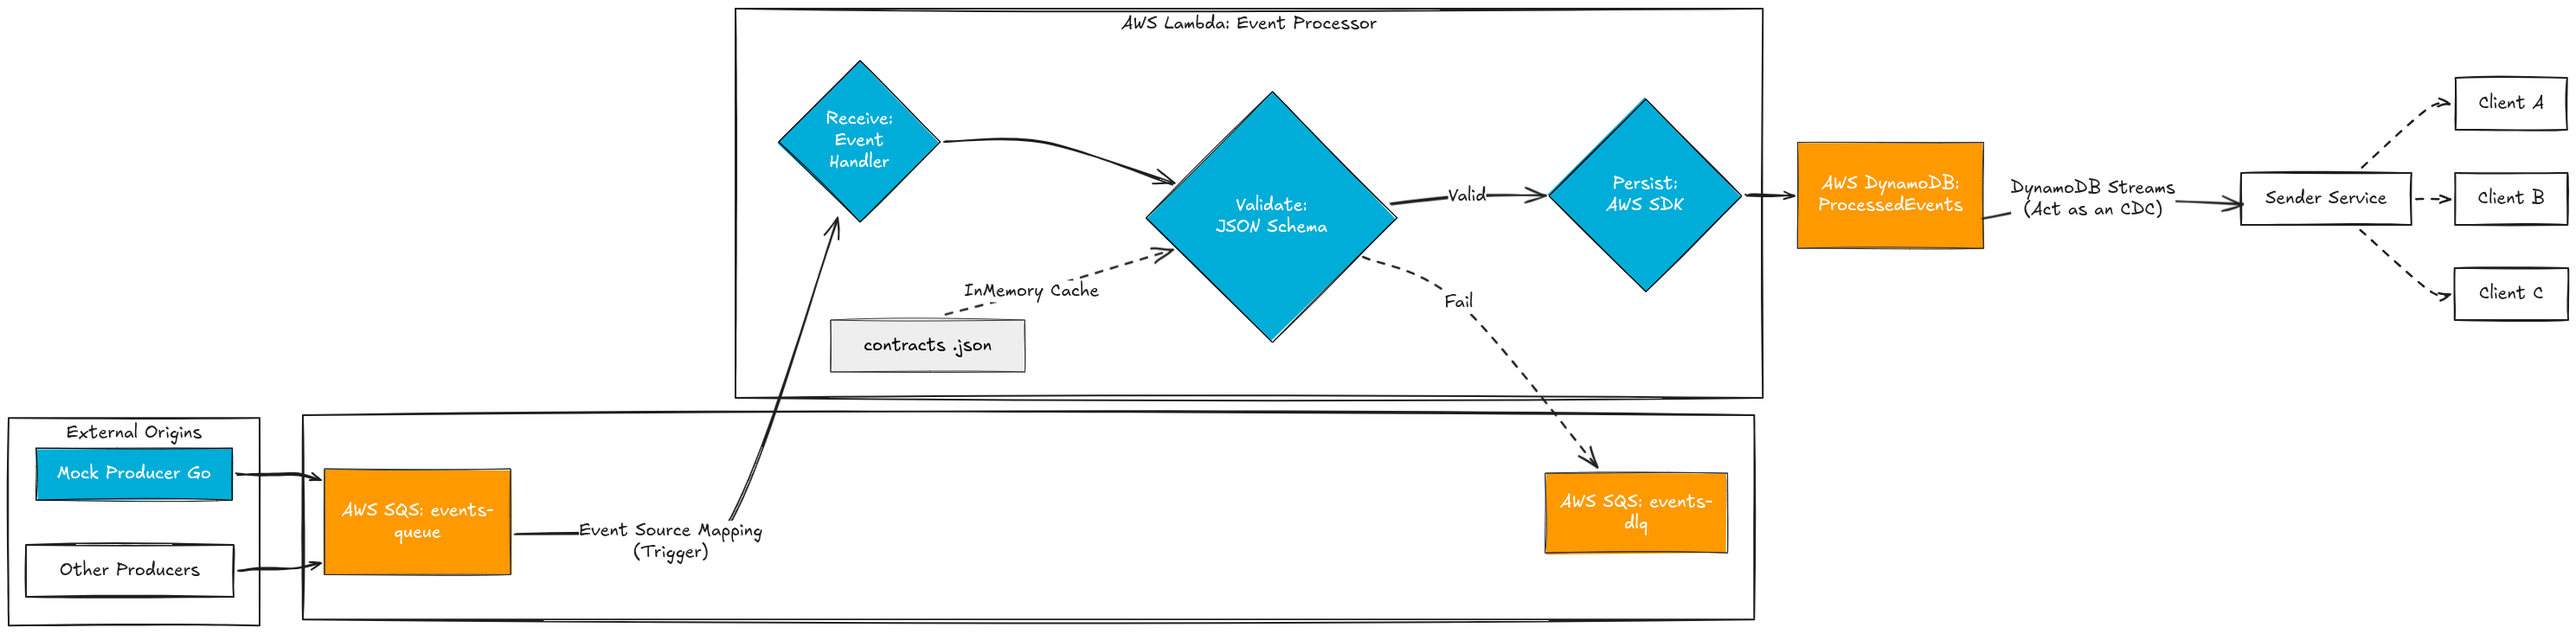
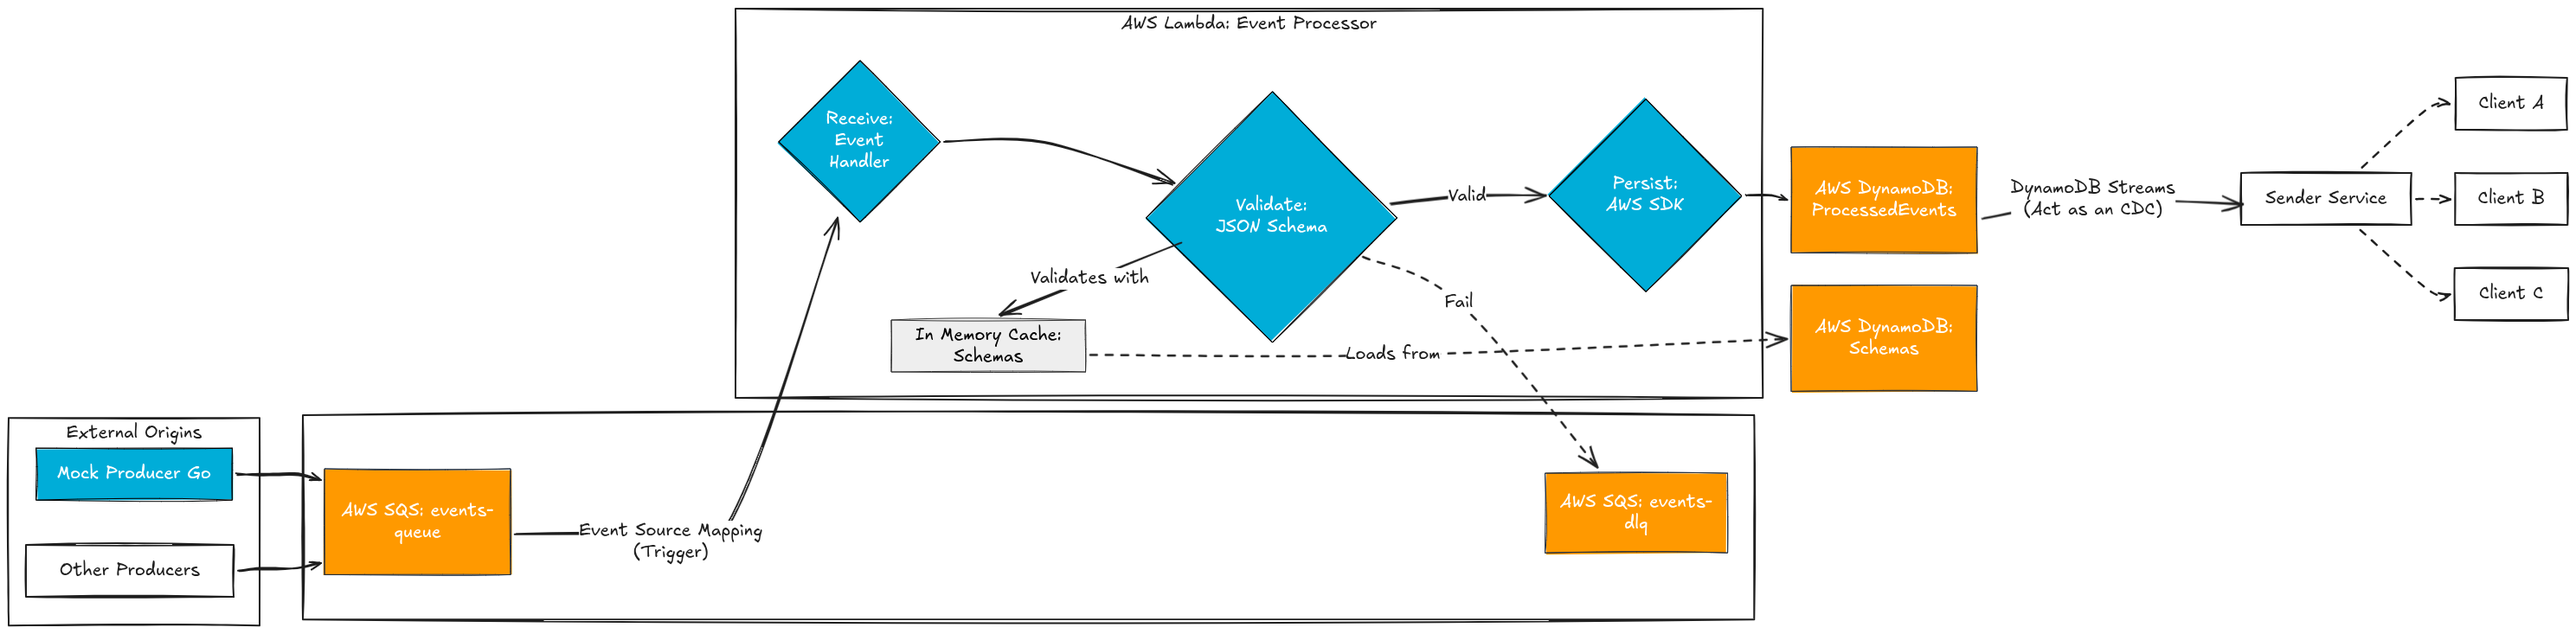
docs: update docs

diff --git a/readme.md b/readme.md
@@ -15,12 +15,14 @@ Para atender aos requisitos de escalabilidade e resiliência, a seguinte stack f
     * Como a arquitetura proposta não exige a garantia de ordem estrita de processamento ou *replay* histórico de eventos, o SQS atende perfeitamente ao requisito de mensageria com resiliência sem a sobrecarga de gerenciar *brokers*, partições ou *offsets* exigida pelo Kafka.
 * **Processamento (AWS Lambda em Go):** A arquitetura utilizará o modelo *Event-Driven* com AWS Lambda (linguagem de progamação Go) acionada nativamente pelo SQS. 
   * *Por que não Kubernetes com HPA?* Embora rodar a aplicação em pods dentro de um cluster Kubernetes e escalá-los horizontalmente (HPA) observando a profundidade da fila e escalando de acordo seja uma abordagem robusta, ela introduz uma complexidade operacional significativa (gerenciamento de cluster, manifestos, e etc...). A AWS Lambda oferece escalabilidade elástica gerida pela própria nuvem, instanciando novos ambientes de execução instantaneamente conforme o volume da fila aumenta. Isso atende perfeitamente ao requisito de criar um serviço reativo de alta performance, priorizando a **simplicidade**.
-* **Validação (JSON Schema):** Para atender à regra de contratos declarativos, os *schemas* em JSON serão cacheados em memória durante a inicialização da Lambda, validando o *payload* de forma extremamente rápida. 
+  * TO-DO: Comparações de custos de Lambda x K8s
+* **Validação (JSON Schema):** Para atender à regra de contratos declarativos, os *schemas* em JSON serão cacheados em memória durante a inicialização da Lambda, validando o *payload* de forma extremamente rápida. (Os schemas serão carregados através de uma tablea no DynamoDb contendo o `event_type` e o `schema` em si).
     - Outras formas de validar seriam, por exemplo, o uso de Protobuf (Protocol Buffers), validação estrutural no código via *struct tags*, porém, escolhi a JSON Schema pois permite especificar os eventos de forma declarativa e ser usada como base para a validação. Além de ser **agnóstica de linguagem e nativamente suportada por payloads JSON (padrão de mercado)**, ela permite adicionar novos produtores e regras apenas incluindo novos arquivos de contrato, sem a necessidade de recompilar a aplicação.
 * **Persistência (AWS DynamoDB):** Banco NoSQL que escala horizontalmente por natureza. A modelagem usará a `Partition Key` para agrupar dados por `client_id` (multi-tenant) e `Sort Key` com id único do evento para garantir a idempotência das mensagens. O uso do *DynamoDB Streams* atuará como um CDC (Change Data Capture), habilitando o consumo de baixa latência por outros serviços (Sender).
   * Eu havia considerado, inicialmente, PostgresSQL ou CassandraDB, porém:
   * *Por que não PostgreSQL?* Embora o Postgres consiga lidar com os payloads dinâmicos usando o tipo `jsonb`, bancos relacionais enfrentam gargalos de escalabilidade horizontal em cenários de alta ingestão (*write-heavy*) e exigiriam um gerenciamento complexo de pool de conexões via Lambda.
   * *Por que não CassandraDB?* O Cassandra lidaria perfeitamente com o alto volume de escritas e a escalabilidade, porém adicionaria uma complexidade operacional considerável (manutenção de cluster e tuning) que vai contra a premissa de simplicidade. O DynamoDB entrega a mesma performance no modelo *Serverless*.
+  * TO-DO: Citar/estudar a importância do TTL para as mensagens. Dependendo da quantia de eventos, manter todos persistidos vai ocupar muito disco. Talvez, como já disponibilizaremos os eventos com DynamoDB Streams, valha a pena colocar um TTL nas mensagens e, talvez, movê-los pra um S3 para permanência.
 * **Observabilidade (Logs, Métricas e Traces):** 
   * *Logs:* Adotei o padrão de **Structured Logging**. Em vez de múltiplos logs sequenciais no I/O, a aplicação consolida o contexto da execução e emite um único payload JSON por evento processado (contendo `event_id`, `client_id`, tempo de execução e status, etc..). Tomei essa decisão após ler este blog e concordar com a visão do mesmo: [Logging Sucks](https://loggingsucks.com/). O destino nativo é o **Amazon CloudWatch**, já que logaremos no stdout das AWS Lambdas.
   * *Métricas:* 🤔 decidindo... 
